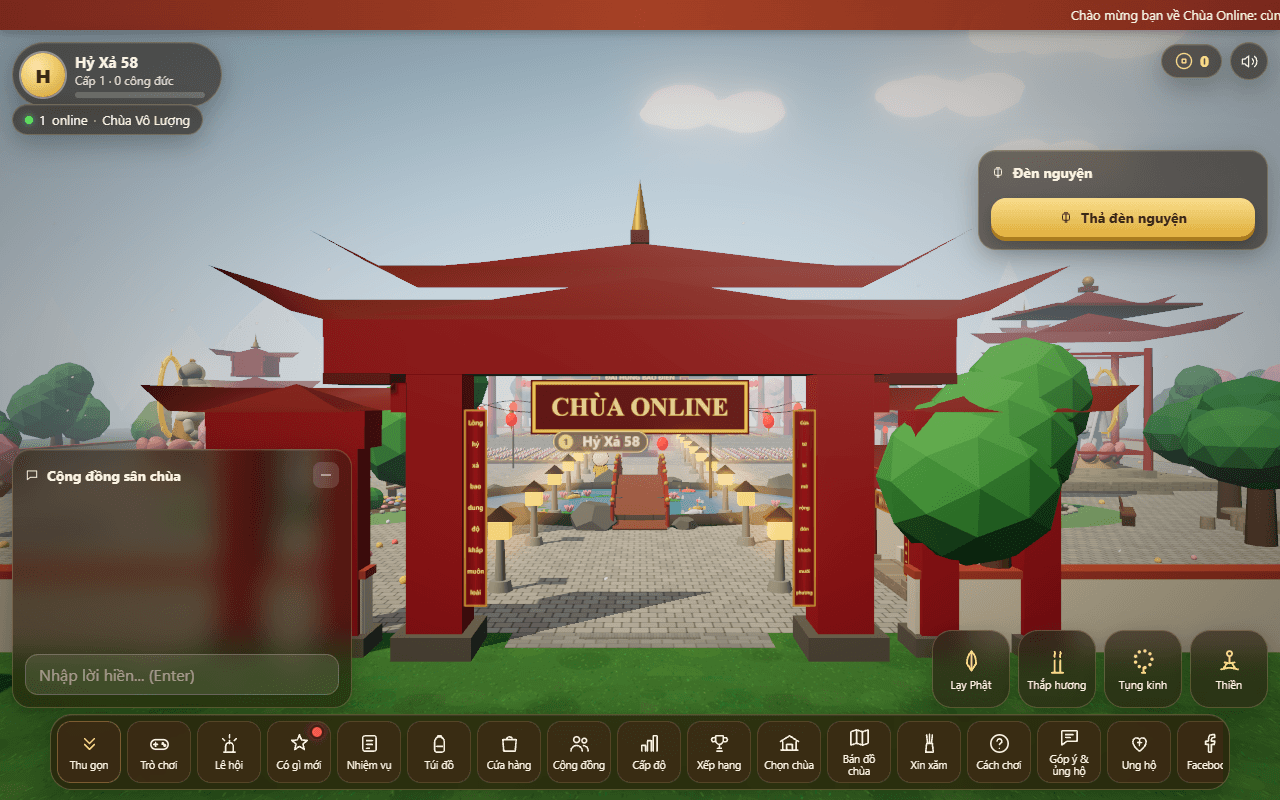
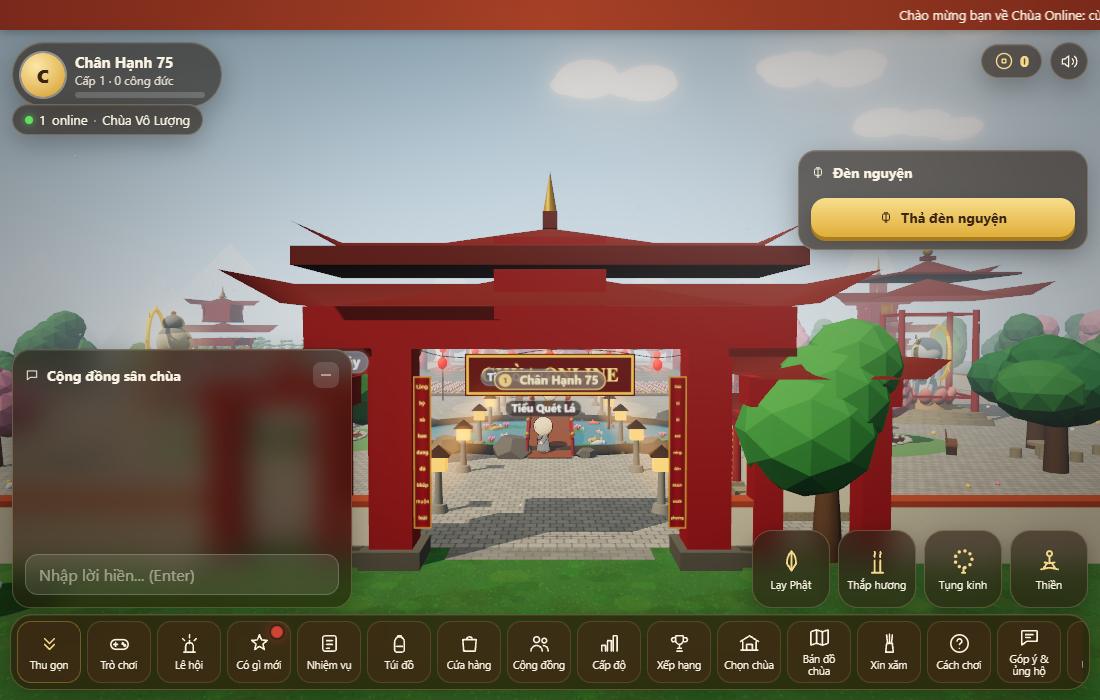
feat: Tam Quan gate refinement - wider side bays, neck between roofs, updated shots (masterplan GD1 Goi 3)

diff --git a/src/temple.ts b/src/temple.ts
@@ -436,25 +436,27 @@ export function buildTemple(c: TempleCtx) {
   };
   wallSeg(-WALL.x, WALL.zN, WALL.x, WALL.zN);
   wallSeg(-WALL.x, WALL.zN, -WALL.x, WALL.zS); wallSeg(WALL.x, WALL.zN, WALL.x, WALL.zS);
-  wallSeg(-WALL.x, WALL.zS, -WALL.gate - 1.6, WALL.zS); wallSeg(WALL.gate + 1.6, WALL.zS, WALL.x, WALL.zS);
+  wallSeg(-WALL.x, WALL.zS, -WALL.gate - 5.1, WALL.zS); wallSeg(WALL.gate + 5.1, WALL.zS, WALL.x, WALL.zS);
+  wallSeg(-WALL.gate - 1.7, WALL.zS, -WALL.gate - 0.6, WALL.zS); wallSeg(WALL.gate + 0.6, WALL.zS, WALL.gate + 1.7, WALL.zS);
   const gate = new THREE.Group();
   for (const x of [-WALL.gate, WALL.gate]) {
     const pl = new THREE.Mesh(new THREE.BoxGeometry(1.2, 6.4, 1.2), c.redM); pl.position.set(x, 3.2, 0); pl.castShadow = true; pl.userData.sealable = true; gate.add(pl);
     const b = new THREE.Mesh(new THREE.BoxGeometry(1.7, 0.5, 1.7), stoneBase); b.position.set(x, 0.25, 0); b.userData.sealable = true; gate.add(b);
     colliders.push({ x, z: WALL.zS, r: 0.9 });
     const sx = x + Math.sign(x) * 3.2;
-    for (const px of [sx - 1.1, sx + 1.1]) {
+    for (const px of [sx - 1.5, sx + 1.5]) {
       const sp = new THREE.Mesh(new THREE.BoxGeometry(0.8, 4.6, 0.8), c.redM); sp.position.set(px, 2.3, 0); sp.castShadow = true; sp.userData.sealable = true; gate.add(sp);
       const sb = new THREE.Mesh(new THREE.BoxGeometry(1.2, 0.4, 1.2), stoneBase); sb.position.set(px, 0.2, 0); sb.userData.sealable = true; gate.add(sb);
       colliders.push({ x: px, z: WALL.zS, r: 0.55 });
     }
-    const sl = new THREE.Mesh(new THREE.BoxGeometry(3.4, 0.5, 1.1), c.redM); sl.position.set(sx, 4.7, 0); sl.castShadow = true; sl.userData.sealable = true; gate.add(sl);
-    const sr = new THREE.Mesh(c.roofGeometry(4.6, 3.6, 1.2, 0.5), c.tileM); sr.position.set(sx, 5.4, 0); sr.castShadow = true; sr.userData.sealable = true; gate.add(sr);
+    const sl = new THREE.Mesh(new THREE.BoxGeometry(4.2, 0.5, 1.1), c.redM); sl.position.set(sx, 4.7, 0); sl.castShadow = true; sl.userData.sealable = true; gate.add(sl);
+    const sr = new THREE.Mesh(c.roofGeometry(5.4, 3.6, 1.2, 0.5), c.tileM); sr.position.set(sx, 5.4, 0); sr.castShadow = true; sr.userData.sealable = true; gate.add(sr);
   }
   const lintel = new THREE.Mesh(new THREE.BoxGeometry(WALL.gate * 2 + 4.6, 0.8, 1.5), c.redM); lintel.position.y = 6.45; lintel.castShadow = true; lintel.userData.sealable = true; gate.add(lintel);
   const gRoof = new THREE.Mesh(c.roofGeometry(WALL.gate * 2 + 7.5, 5, 2.0, 0.8), c.tileM); gRoof.position.y = 7.45; gRoof.castShadow = true; gRoof.userData.sealable = true; gate.add(gRoof);
-  const gRoof2 = new THREE.Mesh(c.roofGeometry(WALL.gate * 2 + 4.2, 4.2, 1.5, 0.6), c.tileM); gRoof2.position.y = 8.4; gRoof2.castShadow = true; gRoof2.userData.sealable = true; gate.add(gRoof2);
-  const gFin = new THREE.Mesh(new THREE.ConeGeometry(0.2, 1.2, 8), c.goldM); gFin.position.y = 9.8; gFin.userData.sealable = true; gate.add(gFin);
+  const gNeck = new THREE.Mesh(new THREE.BoxGeometry(3.0, 2.2, 2.0), c.redM); gNeck.position.y = 7.95; gNeck.castShadow = true; gNeck.userData.sealable = true; gate.add(gNeck);
+  const gRoof2 = new THREE.Mesh(c.roofGeometry(WALL.gate * 2 + 4.2, 4.2, 1.5, 0.6), c.tileM); gRoof2.position.y = 8.85; gRoof2.castShadow = true; gRoof2.userData.sealable = true; gate.add(gRoof2);
+  const gFin = new THREE.Mesh(new THREE.ConeGeometry(0.2, 1.2, 8), c.goldM); gFin.position.y = 10.45; gFin.userData.sealable = true; gate.add(gFin);
   const gSign = new THREE.Mesh(new THREE.PlaneGeometry(4.6, 1.15), new THREE.MeshBasicMaterial({ map: signTexture('CHÙA ONLINE') }));
   gSign.position.set(0, 5.35, 0.85); gate.add(gSign);
   for (let i = 0; i < 2; i++) {
